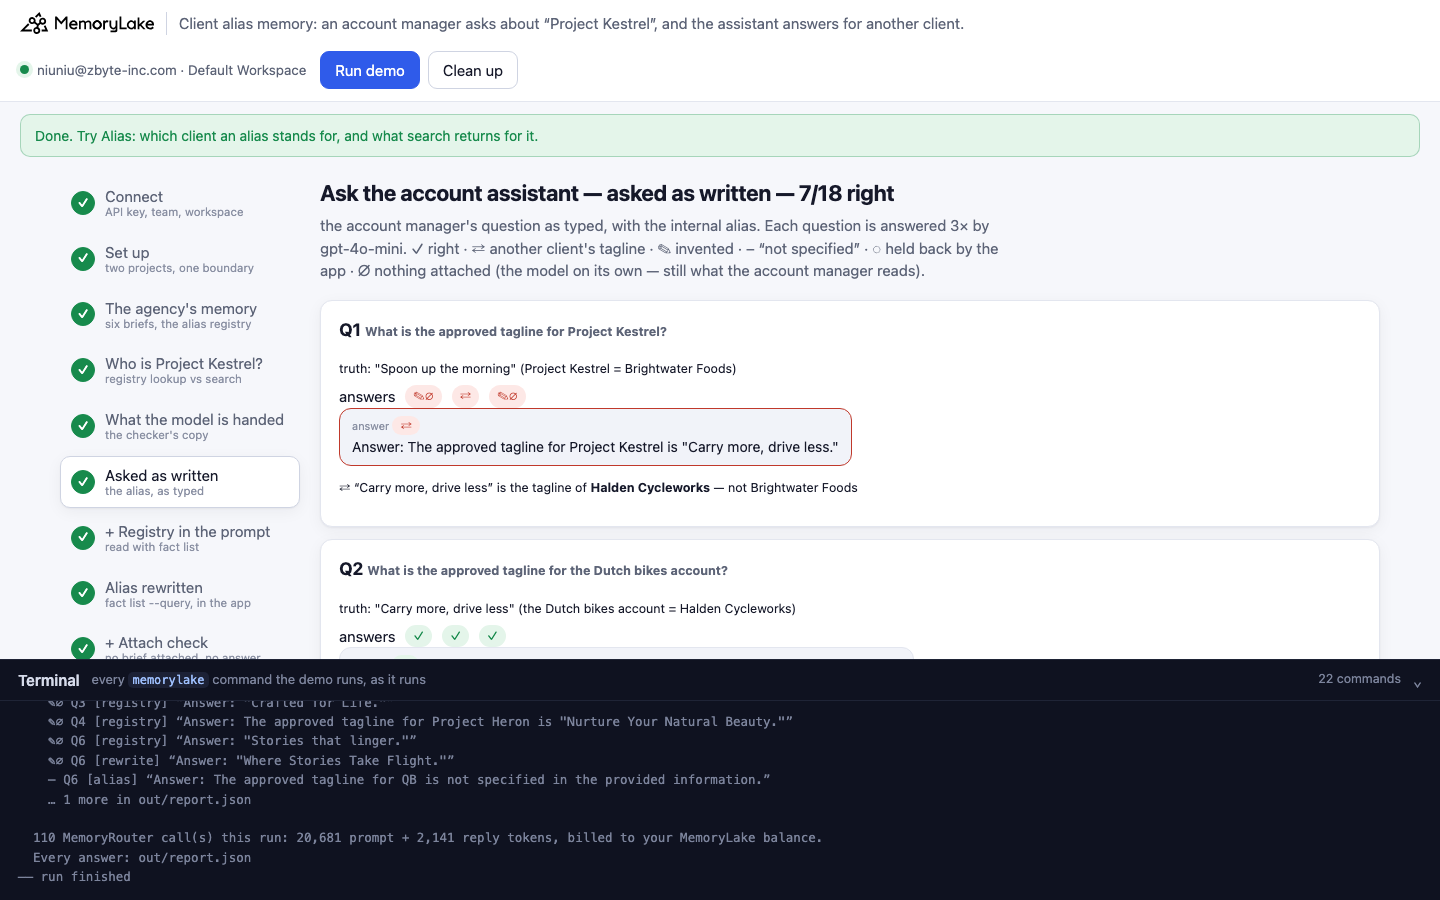
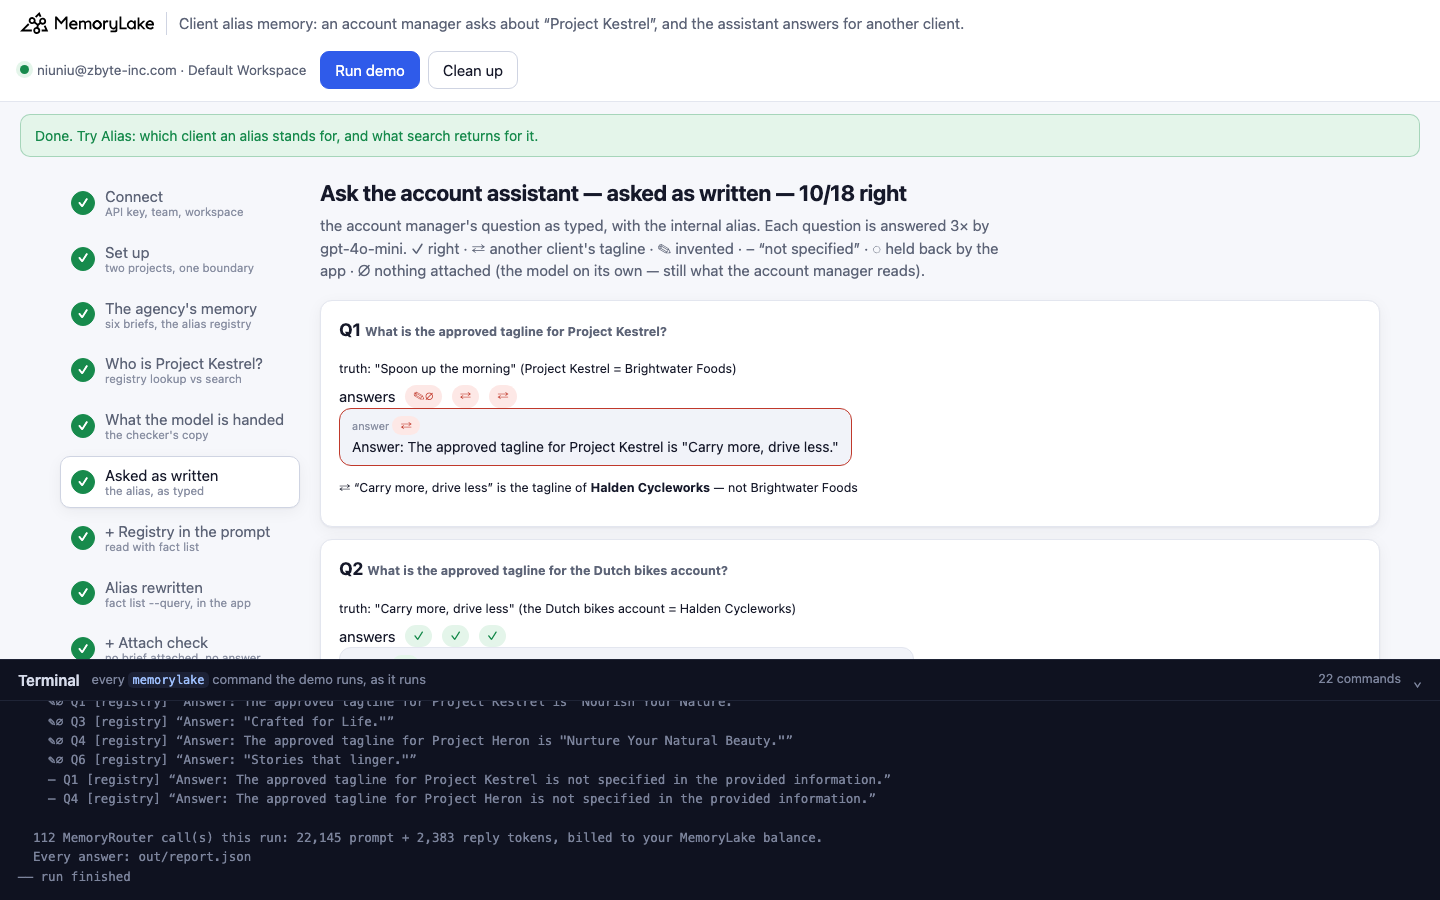
client-alias-memory: videos (release v1), totals over 7 runs

diff --git a/client-alias-memory/README.md b/client-alias-memory/README.md
@@ -4,7 +4,8 @@ A runnable version of the MemoryLake use case
 [*Give Agencies Client Context Memory That Works Across Every AI Tool*](https://www.memorylake.ai/en/usecase/client-context-memory-for-agencies),
 built entirely on the [`memorylake` CLI](https://github.com/memorylake-ai/memorylake-cli) (v20261015 or later).
 
-**Watch it run:** videos are being recorded.
+**Watch it run:** [CLI, 5:00](https://github.com/memorylake-ai/memorylake-usecases/releases/download/client-alias-memory-v1/client-alias-memory-cli-demo.mp4) · [Web, 5:46](https://github.com/memorylake-ai/memorylake-usecases/releases/download/client-alias-memory-v1/client-alias-memory-web-demo.mp4)
+([release](https://github.com/memorylake-ai/memorylake-usecases/releases/tag/client-alias-memory-v1); GitHub serves them as downloads).
 
 **The problem.** Copperline Studio (a fictional creative agency) keeps one brief per client in shared memory: six
 clients, one Markdown brief each (product, contact, launch date, approved tagline, banned word). An account assistant
@@ -27,21 +28,21 @@ Q4  What is the approved tagline for Project Heron?            (Project Heron = 
                                                          ← Quillfeather Books' tagline
 ```
 
-Nothing in those replies says the brief belongs to another client. Over 5 runs, the two codename questions were
-answered right **0 of 30** times.
+Nothing in those replies says the brief belongs to another client. Over 7 runs, the two codename questions were
+answered right **0 of 42** times.
 
 The agency already has the answer to "who is Project Kestrel": an alias registry, kept as facts in MemoryLake. The
 obvious fix is to read it (`fact list`) and put it in the system prompt. It changes what the model *knows*, not what
 MemoryRouter *retrieves* — retrieval still runs on "Project Kestrel". The model now notices that Halden's brief is
 not Kestrel's and says "not specified" — or, when nothing was attached, still invents one. Codename questions:
-**0 of 30** again.
+**0 of 42** again.
 
 What works is changing the words retrieval sees: the app finds the alias in the question, looks it up exactly
 (`fact list --query "Project Kestrel"` → Brightwater Foods) and asks about **Brightwater Foods**. That brings all six
-questions to 82 of 90. The last 8 are a different failure that every setup shares: **MemoryRouter attached nothing
+questions to 116 of 126. The last 10 are a different failure that every setup shares: **MemoryRouter attached nothing
 at all, and the model invented a tagline.** Every invented answer in every run had nothing attached. The app can see
 that — the prompt tokens equal those of the same call without a boundary — so the last setup only shows an answer
-when something was attached, and asks again otherwise: **89 of 90**, and the 90th was held back ("no brief came
+when something was attached, and asks again otherwise: **125 of 126**, and the last one was held back ("no brief came
 back"), not invented.
 
 ## What the demo shows
@@ -150,8 +151,8 @@ copy out everything above the question — twice per alias, plus once without a 
       2. (halden.md) — the brief for Halden Cycleworks  ← another client
 ```
 
-Over 5 runs, for the two codenames: Brightwater's or Solvane's own brief attached **0 of 20** times — another
-client's brief 11, nothing 9.
+Over 7 runs, for the two codenames: Brightwater's or Solvane's own brief attached **0 of 28** times — another
+client's brief 15, nothing 13.
 
 ### Steps 6–9: ask the account assistant
 
@@ -188,36 +189,36 @@ don't give one · ◌ held back by the app.
 
 ## Measured
 
-Over **5 runs** (per setup and run: 6 questions × 3 answers):
+Over **7 runs** (including the two recordings; per setup and run: 6 questions × 3 answers):
 
 | | right | ⇄ another client's tagline | ✎ invented (all with nothing attached) | – "not specified" | ◌ held back |
 |---|---|---|---|---|---|
-| asked as written | 41/90 | 12 | 35 | 2 | – |
-| + alias registry in the system prompt | 42/90 | 0 | 34 | 14 | – |
-| alias rewritten | 82/90 | 0 | 8 | 0 | – |
-| rewritten + attach check | 89/90 | 0 | 0 | 0 | 1 |
+| asked as written | 59/126 | 16 | 49 | 2 | – |
+| + alias registry in the system prompt | 56/126 | 0 | 50 | 20 | – |
+| alias rewritten | 116/126 | 0 | 10 | 0 | – |
+| rewritten + attach check | 125/126 | 0 | 0 | 0 | 1 |
 
-By question (15 answers each):
+By question (21 answers each):
 
 | | as written | + registry in the prompt | rewritten | rewritten + check |
 |---|---|---|---|---|
-| Q1 Project Kestrel (codename) | ✎∅ 10, ⇄ 5 | ✎∅ 11, – 4 | ✓ 15 | ✓ 15 |
-| Q4 Project Heron (codename) | ⇄ 7, ✎∅ 7, – 1 | – 9, ✎∅ 6 | ✓ 14, ✎∅ 1 | ✓ 15 |
-| Q2 the Dutch bikes account (description) | ✓ 14, ✎∅ 1 | ✓ 14, ✎∅ 1 | ✓ 14, ✎∅ 1 | ✓ 15 |
-| Q3 M&P (initials) | ✓ 10, ✎∅ 5 | ✓ 9, ✎∅ 6 | ✓ 14, ✎∅ 1 | ✓ 14, ◌ 1 |
-| Q5 the insurer (generic) | ✓ 15 | ✓ 15 | ✓ 15 | ✓ 15 |
-| Q6 QB (initials) | ✎∅ 12, ✓ 2, – 1 | ✎∅ 10, ✓ 4, – 1 | ✓ 10, ✎∅ 5 | ✓ 15 |
+| Q1 Project Kestrel (codename) | ✎∅ 14, ⇄ 7 | ✎∅ 14, – 7 | ✓ 21 | ✓ 21 |
+| Q4 Project Heron (codename) | ✎∅ 11, ⇄ 9, – 1 | – 12, ✎∅ 9 | ✓ 20, ✎∅ 1 | ✓ 21 |
+| Q2 the Dutch bikes account (description) | ✓ 19, ✎∅ 2 | ✓ 20, ✎∅ 1 | ✓ 20, ✎∅ 1 | ✓ 21 |
+| Q3 M&P (initials) | ✓ 14, ✎∅ 7 | ✓ 11, ✎∅ 10 | ✓ 18, ✎∅ 3 | ✓ 20, ◌ 1 |
+| Q5 the insurer (generic) | ✓ 21 | ✓ 21 | ✓ 21 | ✓ 21 |
+| Q6 QB (initials) | ✎∅ 15, ✓ 5, – 1 | ✎∅ 16, ✓ 4, – 1 | ✓ 16, ✎∅ 5 | ✓ 21 |
 
 - **A codename gives retrieval nothing to go on.** For Kestrel and Heron, the checker never saw the right brief
-  attached (0 of 20 copies), and search had it in its top 3 once in 10 lookups (#2); what came back instead was
+  attached (0 of 28 copies), and search had it in its top 3 once in 14 lookups (#2); what came back instead was
   whichever brief happened to rank first (Halden's, mostly).
 - **The registry in the prompt moves the failure, it doesn't fix it.** With it, the model never passed another
-  client's tagline off as Kestrel's (⇄ 12 → 0): it says "not specified" instead. But it still has no Brightwater
-  brief to answer from, and right answers stay at 42/90.
-- **Rewriting the alias fixes retrieval.** Codenames go from 0/30 to 29/30.
-- **Every ✎ answer, in every setup, was on a call with nothing attached** (35 + 34 + 8 = 77 of 77). MemoryRouter
-  sometimes attaches nothing even for the client's full name (8 of 90 rewritten calls), and the model never says so:
-  it writes a plausible tagline. Prompt tokens equal to the no-boundary baseline are the app's signal; 12 calls
+  client's tagline off as Kestrel's (⇄ 16 → 0): it says "not specified" instead. But it still has no Brightwater
+  brief to answer from, and right answers stay at 56/126.
+- **Rewriting the alias fixes retrieval.** Codenames go from 0/42 to 41/42.
+- **Every ✎ answer, in every setup, was on a call with nothing attached** (49 + 50 + 10 = 109 of 109). MemoryRouter
+  sometimes attaches nothing even for the client's full name (10 of 126 rewritten calls), and the model never says so:
+  it writes a plausible tagline. Prompt tokens equal to the no-boundary baseline are the app's signal; 18 answers
   needed a retry, 1 question came back empty three times and was held back.
 - These are totals over every run. Model replies vary from run to run.
 

diff --git a/README.md b/README.md
@@ -102,7 +102,7 @@ that memory can hold once it is more than coding sessions.
 | [consent-withdrawal-memory](consent-withdrawal-memory/) | Research & analytics | A research team keeps interview notes behind MemoryRouter; two participants withdraw consent and their notes are deleted everywhere (`proj doc delete`, `lib delete`, `search` finds 0 of their words). Then the assistant is asked about them: MemoryRouter attaches by topic, so it puts other participants' words in their mouth, or attaches nothing and the model says "Yes, Dana Reyes … can be quoted". Notes deleted: 0/96 right over 8 runs (48 "yes, quote them", 26 someone else's words, 22 invented; 70 ∅). A record of the deletion holding none of what they said fixes it: a consent register 89/96, a notice under each deleted file's name 90/96 — every miss a ∅ call. A name never interviewed gets someone else's words, or an invented answer, in every arm (0/72); controls 207/207 | [CLI 6:16](https://github.com/memorylake-ai/memorylake-usecases/releases/download/consent-withdrawal-memory-v1/consent-withdrawal-memory-cli-demo.mp4) · [Web 7:06](https://github.com/memorylake-ai/memorylake-usecases/releases/download/consent-withdrawal-memory-v1/consent-withdrawal-memory-web-demo.mp4) |
 | [project-roster-memory](project-roster-memory/) | Operations, HR & teams | A PMO keeps six projects' decision logs behind MemoryRouter. Asked about a project it never tracked ("What go-live date did we set for Project Beacon?"), MemoryRouter usually attaches nothing and the model invents a date, vendor or budget, or hands Beacon another project's date. Logs only: 17/120 "not tracked" over 10 runs (100 invented, every one a ∅ call). A roster document in the same boundary: 38/120 (it only helps when attached). The roster as facts, read by the app with `fact list` and put in the system prompt: 120/120; `fact list --query Beacon` → 0 is a deterministic check before any model call. Controls 359/360 | ~4 min | [CLI 5:22](https://github.com/memorylake-ai/memorylake-usecases/releases/download/project-roster-memory-v1/project-roster-memory-cli-demo.mp4) · [Web 5:41](https://github.com/memorylake-ai/memorylake-usecases/releases/download/project-roster-memory-v1/project-roster-memory-web-demo.mp4) |
 | [docket-number-memory](docket-number-memory/) | Legal & IP | An IP firm keeps six prior art search memos behind MemoryRouter, one per US application. Asked about an application number with two digits swapped ("closest reference for 17/428,907?", on file: 17/482,907), MemoryRouter attaches the neighbour's memo and the model answers with its reference under the asked number. Memos only: 0/84 "no search on file" over 7 runs (51 another application's answer, 33 invented with nothing attached); the docket in the system prompt: 73/84 (all 11 misses rewrote the number to the docket's and answered for it); an exact `fact list --query` check in the app before any model call: 84/84, with the nearest docket number as a "did you mean". | ~4 min | [CLI 4:41](https://github.com/memorylake-ai/memorylake-usecases/releases/download/docket-number-memory-v1/docket-number-memory-cli-demo.mp4) · [Web 5:31](https://github.com/memorylake-ai/memorylake-usecases/releases/download/docket-number-memory-v1/docket-number-memory-web-demo.mp4) |
-| [client-alias-memory](client-alias-memory/) | Sales & revenue teams | An agency keeps six client briefs behind MemoryRouter; account managers call clients by internal aliases ("Project Kestrel" = Brightwater Foods) that appear in no brief. Asked by codename, MemoryRouter attaches another client's brief or nothing, and the model answers with the other client's tagline or an invented one: codenames 0/30 right over 5 runs. The alias registry (facts, read with `fact list`) in the system prompt: still 0/30 — the model knows who Kestrel is, but retrieval ran on "Kestrel". Rewriting the alias in the app (`fact list --query`) before the call: 82/90 over all six aliases; every invented answer in every setup had nothing attached, and showing an answer only when prompt tokens exceed the no-boundary baseline (retry up to 3×): 89/90, the last one held back | ~4 min | Recording |
+| [client-alias-memory](client-alias-memory/) | Sales & revenue teams | An agency keeps six client briefs behind MemoryRouter; account managers call clients by internal aliases ("Project Kestrel" = Brightwater Foods) that appear in no brief. Asked by codename, MemoryRouter attaches another client's brief or nothing, and the model answers with the other client's tagline or an invented one: codenames 0/42 right over 7 runs. The alias registry (facts, read with `fact list`) in the system prompt: still 0/42 — the model knows who Kestrel is, but retrieval ran on "Kestrel". Rewriting the alias in the app (`fact list --query`) before the call: 116/126 over all six aliases; every invented answer in every setup had nothing attached, and showing an answer only when prompt tokens exceed the no-boundary baseline (retry up to 3×): 125/126, the last one held back | ~4 min | [CLI 5:00](https://github.com/memorylake-ai/memorylake-usecases/releases/download/client-alias-memory-v1/client-alias-memory-cli-demo.mp4) · [Web 5:46](https://github.com/memorylake-ai/memorylake-usecases/releases/download/client-alias-memory-v1/client-alias-memory-web-demo.mp4) |
 
 The videos are real, unedited recordings; every asset lives on the [releases page](https://github.com/memorylake-ai/memorylake-usecases/releases).
 
